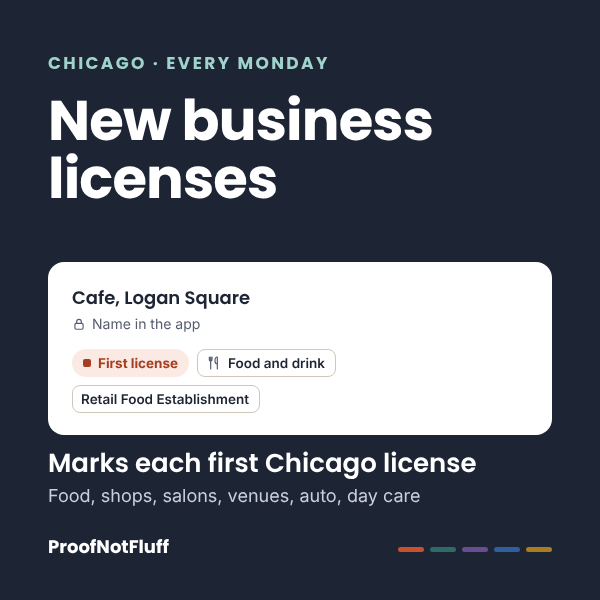
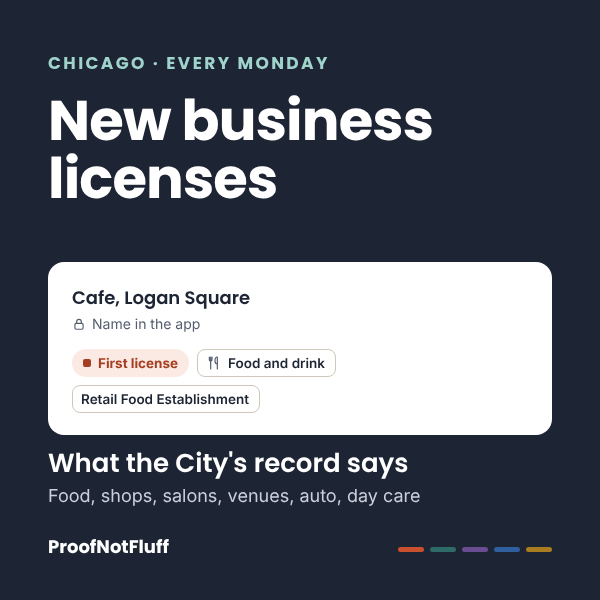
Licenses: holdout 2 round 4 fixes
- A box under a mail center's suite is a mailbox (Level K Events at 332 S Michigan, planted); private booting is work away from a fixed site
- Food and drink defined by the City food or liquor license or food activity
- Cover, thumbnail, storefront and app say what the City's record says instead of 'first Chicago license'
- Free page names the pull day; the sample's source line matches the left-out rules

Claude-Session: https://claude.ai/code/session_01XnX34ksV3GY3Ab6wG7Aich

Changed region(s): [[0.06, 0.75, 0.81, 0.81]]

diff --git a/docs/chicago-new-business-licenses/index.html b/docs/chicago-new-business-licenses/index.html
@@ -12,6 +12,6 @@
 <a class="skip" href="#main">Skip to content</a>
 <header class="top"><div class="wrap"><a class="brandlink" href="../"><span class="brand">ProofNotFluff</span><span class="bars" aria-hidden="true"><i></i><i></i><i></i><i></i><i></i></span></a>
 <nav class="top" aria-label="Main"><a href="../shop/" aria-current="page">Shop</a><a href="../calculators/">Free calculators</a><a href="../questions/">Questions</a></nav></div></header>
-<main class="wrap" id="main"><nav class="crumbs" aria-label="Breadcrumb"><ol><li><a href="../">Home</a></li><li><a href="../shop/">Shop</a></li><li aria-current="page">Chicago New Business Licenses</li></ol></nav><div class="ld-hero"><p class="eyebrow">Free sample, updated every Monday</p><h1>Chicago New Business Licenses</h1><p class="lede">54 business sites on this week's list got a new City business license in the week to Oct 22, 2026, and 238 in the last 30 days. For vendors who sell to new businesses and new locations: POS and payments, signs, insurance, bookkeeping, cleaning, pest control, waste and supplies.</p><div class="ld-heroact rl-act"><a class="btn ld-btnbig" href="mailto:hello@proofnotfluff.com?subject=Chicago%20New%20Business%20Licenses%3A%20tell%20me%20when%20it%20opens">Tell me when it opens</a><a class="ld-textlink" href="#sample">See this week's sample</a></div><p class="ld-heronote">Not on sale yet. New list every Monday.</p></div><div class="tiles ld-tiles"><div class="tile key"><div class="lab">New in 30 days</div><div class="val">238</div><div class="sub">licensed business sites</div></div><div class="tile"><div class="lab">New this week</div><div class="val">54</div><div class="sub">licensed in the last 7 days</div></div><div class="tile"><div class="lab">Food businesses</div><div class="val">74</div><div class="sub">restaurants, cafes, bars, shops</div></div><div class="tile"><div class="lab">Busiest area this week</div><div class="val lc-area">Lincoln Park</div><div class="sub">4 new licenses, tied with 1 more area</div></div></div><p class="asof">City records pulled Oct 22, 2026. Refreshed every Monday.</p><section class="block"><h2>New licenses by trade, last 30 days</h2><p>Each business on the list, sorted by what it does, so you can work the trades that buy from you.</p><ol class="rl-trades"><li><span class="nm">Food and drink<small>Restaurants, cafes, bars, caterers, groceries and other food shops. 26 new this week</small></span><span class="n">74</span></li><li><span class="nm">Shops and services<small>Shops, offices, studios, manufacturers and other services. 17 new this week</small></span><span class="n">107</span></li><li><span class="nm">Salons, spas, fitness<small>Salons, barbers, nails, skin care, spas, gyms and studios. 7 new this week</small></span><span class="n">41</span></li><li><span class="nm">Venues and lodging<small>Event venues, entertainment, hotels and lodging. 2 new this week</small></span><span class="n">3</span></li><li><span class="nm">Auto shops<small>Auto repair, tire shops, car washes and gas stations. 1 new this week</small></span><span class="n">10</span></li><li><span class="nm">Day care<small>Day care and children&#x27;s services. 1 new this week</small></span><span class="n">3</span></li></ol></section><section class="block" id="sample"><h2>This week's sample</h2><p>Up to three businesses per trade licensed in the last 7 days. The members' list has all 238 from the last 30 days, with a map, filters by trade, area and date, and an Excel file.</p><h3 class="lc-h3">Food and drink <span>(26 this week)</span></h3><div class="ld-list rl3"><article class="ld-proj"><p class="ld-pill lc-pill">Licensed Oct 21, 2026</p><div class="ld-ptop"><span class="ld-cost" style="font-size:20px">Plush Pup</span></div><dl class="ld-meta"><div><dt>Where</dt><dd>5344 N Cumberland Ave 1st, O&#x27;Hare</dd></div><div><dt>License</dt><dd>Retail Food Establishment</dd></div><div><dt>Activity</dt><dd>Sale of Food Prepared Onsite With Dining Area</dd></div></dl></article><article class="ld-proj"><p class="ld-pill lc-pill">Licensed Oct 21, 2026</p><div class="ld-ptop"><span class="ld-cost" style="font-size:20px">Pearl Club</span></div><dl class="ld-meta"><div><dt>Where</dt><dd>495-499 N Milwaukee Ave Basement, 1, Mezz., West Town</dd></div><div><dt>License</dt><dd>Tavern</dd></div><div><dt>Activity</dt><dd>Tavern - Consumption of Liquor on Premises</dd></div></dl></article><article class="ld-proj"><p class="ld-pill lc-pill">Licensed Oct 21, 2026</p><div class="ld-ptop"><span class="ld-cost" style="font-size:20px">Millennium Hall Casa Bonita</span></div><dl class="ld-meta"><div><dt>Where</dt><dd>11 N Michigan Ave 1st, Loop</dd></div><div><dt>License</dt><dd>Caterer&#x27;s Liquor License</dd></div><div><dt>Activity</dt><dd>Catering of Liquor To Events</dd></div></dl></article></div><h3 class="lc-h3">Shops and services <span>(17 this week)</span></h3><div class="ld-list rl3"><article class="ld-proj"><p class="ld-pill lc-pill">Licensed Oct 21, 2026</p><div class="ld-ptop"><span class="ld-cost" style="font-size:20px">Pro Plus Parking</span></div><dl class="ld-meta"><div><dt>Where</dt><dd>1005 N State St 23,4,5,6rt, Near North Side</dd></div><div><dt>License</dt><dd>Commercial Garage</dd></div><div><dt>Activity</dt><dd>Provide 4 or More Parking Spaces For a Fee - to Residents, Tenants, Users, Employees and/or Guests (Not Available or Advertised to the Public)</dd></div></dl></article><article class="ld-proj"><p class="ld-pill lc-pill">Licensed Oct 21, 2026</p><div class="ld-ptop"><span class="ld-cost" style="font-size:20px">Paws &amp; Effect</span></div><dl class="ld-meta"><div><dt>Where</dt><dd>2459 E 75th St, South Shore</dd></div><div><dt>License</dt><dd>Animal Care License</dd></div><div><dt>Activity</dt><dd>Provide Animal Grooming Services</dd></div></dl></article><article class="ld-proj"><p class="ld-pill lc-pill">Licensed Oct 21, 2026</p><div class="ld-ptop"><span class="ld-cost" style="font-size:20px">House of Fragrances Luxe</span></div><dl class="ld-meta"><div><dt>Where</dt><dd>3351 N Harlem Ave, Dunning</dd></div><div><dt>License</dt><dd>Limited Business License</dd></div><div><dt>Activity</dt><dd>Retail Sales of General Merchandise</dd></div></dl></article></div><h3 class="lc-h3">Salons, spas, fitness <span>(7 this week)</span></h3><div class="ld-list rl3"><article class="ld-proj"><p class="ld-pill lc-pill">Licensed Oct 21, 2026</p><div class="ld-ptop"><span class="ld-cost" style="font-size:20px">One Stop Nails &amp; Spa</span></div><dl class="ld-meta"><div><dt>Where</dt><dd>8145 S Cottage Grove Ave, Chatham</dd></div><div><dt>License</dt><dd>Limited Business License</dd></div><div><dt>Activity</dt><dd>Nail Services | Provide Waxing Services</dd></div></dl></article><article class="ld-proj"><p class="ld-pill lc-pill">Licensed Oct 21, 2026</p><div class="ld-ptop"><span class="ld-cost" style="font-size:20px">Lincoln Park Waxing Studio Inc.</span></div><dl class="ld-meta"><div><dt>Where</dt><dd>2102 N Clark St 1st, Lincoln Park</dd></div><div><dt>License</dt><dd>Limited Business License</dd></div><div><dt>Activity</dt><dd>Skincare Services | Provide Waxing Services</dd></div></dl></article><article class="ld-proj"><p class="ld-pill lc-pill">Licensed Oct 21, 2026</p><div class="ld-ptop"><span class="ld-cost" style="font-size:20px">Emyves Spa</span></div><dl class="ld-meta"><div><dt>Where</dt><dd>7127 N Clark St 1st, Rogers Park</dd></div><div><dt>License</dt><dd>Limited Business License</dd></div><div><dt>Activity</dt><dd>Hair Services | Skincare Services</dd></div></dl></article></div><h3 class="lc-h3">Venues and lodging <span>(2 this week)</span></h3><div class="ld-list rl3"><article class="ld-proj"><p class="ld-pill lc-pill">Licensed Oct 20, 2026</p><div class="ld-ptop"><span class="ld-cost" style="font-size:20px">Play 424</span></div><dl class="ld-meta"><div><dt>Where</dt><dd>1415 N Ashland Ave 1 R1, West Town</dd></div><div><dt>License</dt><dd>Public Place of Amusement</dd></div><div><dt>Activity</dt><dd>Charges a Fee for Entertainment or Amusements or Recreational Activities | Retail Sales of General Merchandise and Non-Perishable Food</dd></div></dl></article><article class="ld-proj"><p class="ld-pill lc-pill">Licensed Oct 15, 2026</p><div class="ld-ptop"><span class="ld-cost" style="font-size:20px">The Smart Bar</span></div><dl class="ld-meta"><div><dt>Where</dt><dd>3730 N Clark St Basement, Lake View</dd></div><div><dt>License</dt><dd>Public Place of Amusement</dd></div><div><dt>Activity</dt><dd>Charges a Fee for Entertainment or Amusements or Recreational Activities</dd></div></dl></article></div><h3 class="lc-h3">Auto shops <span>(1 this week)</span></h3><div class="ld-list rl3"><article class="ld-proj"><p class="ld-pill lc-pill">Licensed Oct 19, 2026</p><div class="ld-ptop"><span class="ld-cost" style="font-size:20px">Bolts and Nuts</span></div><dl class="ld-meta"><div><dt>Where</dt><dd>3353 W Division St 1, Humboldt Park</dd></div><div><dt>License</dt><dd>Motor Vehicle Services License</dd></div><div><dt>Activity</dt><dd>Motor Vehicle Repair - Engine and Transmission Work</dd></div></dl></article></div><h3 class="lc-h3">Day care <span>(1 this week)</span></h3><div class="ld-list rl3"><article class="ld-proj"><p class="ld-pill lc-pill">Licensed Oct 20, 2026</p><div class="ld-ptop"><span class="ld-cost" style="font-size:20px">Boitsov Classical Ballet</span></div><dl class="ld-meta"><div><dt>Where</dt><dd>5638 W 63rd St 1st, Clearing</dd></div><div><dt>License</dt><dd>Children&#x27;s Services Facility License</dd></div><div><dt>Activity</dt><dd>Instruction in Dance for Children Under 18 Years of Age</dd></div></dl></article></div></section><section class="block"><h2>How to use this list</h2><p>Pick the trades that buy from you. A new restaurant and a new salon need different vendors, so the list is sorted by what each business does.</p><p>Reach out in the first weeks. The license date tells you how recently the business opened or added a site, so you can reach out early.</p><p>Visit or call the business at its licensed address, name the license and its date, and say in one line what you do for businesses like it.</p><p>If you also have Chicago Restaurant Inspection Leads: food businesses usually get a City food license inspection before the license is issued, usually within three weeks before, and that product lists those inspections as Opening soon. So you may already have seen most of the food businesses here. Each food row with that inspection is marked in the members&#x27; list, so you can hide them. Nearly all businesses in the other trades are only here.</p></section><section class="block" id="ldCta"><div class="cta ld-cta"><div><h2>Get the full list every Monday</h2><p>New business licenses the City issued in the last 30 days at Chicago business sites, except the ones left out on purpose, one row per business and site, sorted by trade, with license type, business activity, issue date, address, community area and what the City&#x27;s earlier records say about the business, in a members&#x27; web app and an Excel file.</p><p class="ld-buybtn"><a class="btn ld-btnbig" href="mailto:hello@proofnotfluff.com?subject=Chicago%20New%20Business%20Licenses%3A%20tell%20me%20when%20it%20opens">Tell me when it opens</a></p></div></div></section><section class="block"><h2>Questions</h2><details><summary>Where does this data come from?</summary><p>The City of Chicago Data Portal&#x27;s Business Licenses dataset. We pull it every Monday and keep new licenses (application type Issue) the City issued in the last 30 days at a Chicago business site.</p></details><details><summary>Is every license a brand-new business?</summary><p>Most are, and each row says which. A business that opens another site, adds a new license type at a site it already has, or licenses a site again (a new owner, or the same business after an older license ended) also gets a new license. The members&#x27; list reads the City&#x27;s earlier licenses for each business and marks which is which: first license, new site, added license or relicensed.</p></details><details><summary>Who is left out?</summary><p>Renewals and changes, cancelled or revoked licenses, licenses for one person&#x27;s own work, for work away from a fixed business site, or for an event or season (such as peddlers, special events, pop-ups, tow trucks, home-sharing, bed-and-breakfasts, shared kitchen users, flea market vendors and market stalls), home and mail-drop addresses (home-based businesses, apartments, private mailboxes and virtual offices), sites outside Chicago, and any business whose shown name could be a person&#x27;s name. A business with two licenses at one site is listed once.</p></details><details><summary>Does it overlap with Chicago Restaurant Inspection Leads?</summary><p>Partly, and only for food businesses. That product lists the City&#x27;s food license inspection, which usually comes within three weeks before the food license this list shows. The members&#x27; list marks every food row with that inspection in the 120 days before its license, so a member of both can hide them. Nearly all shops, salons, venues, auto shops and day care centers are only here.</p></details><details><summary>Is every business on the list open?</summary><p>Not necessarily. A license shows the City issued it on that date. Some businesses open the same week, some later.</p></details><details><summary>Do you contact these businesses for me?</summary><p>No. You make your own calls and visits. We never contact anyone on your behalf, and no business listed has endorsed or works with ProofNotFluff.</p></details></section></main>
+<main class="wrap" id="main"><nav class="crumbs" aria-label="Breadcrumb"><ol><li><a href="../">Home</a></li><li><a href="../shop/">Shop</a></li><li aria-current="page">Chicago New Business Licenses</li></ol></nav><div class="ld-hero"><p class="eyebrow">Free sample, updated every Monday</p><h1>Chicago New Business Licenses</h1><p class="lede">54 business sites on this week's list got a new City business license in the week to Oct 22, 2026, and 238 in the last 30 days. For vendors who sell to new businesses and new locations: POS and payments, signs, insurance, bookkeeping, cleaning, pest control, waste and supplies.</p><div class="ld-heroact rl-act"><a class="btn ld-btnbig" href="mailto:hello@proofnotfluff.com?subject=Chicago%20New%20Business%20Licenses%3A%20tell%20me%20when%20it%20opens">Tell me when it opens</a><a class="ld-textlink" href="#sample">See this week's sample</a></div><p class="ld-heronote">Not on sale yet. New list every Monday.</p></div><div class="tiles ld-tiles"><div class="tile key"><div class="lab">New in 30 days</div><div class="val">238</div><div class="sub">licensed business sites</div></div><div class="tile"><div class="lab">New this week</div><div class="val">54</div><div class="sub">licensed in the last 7 days</div></div><div class="tile"><div class="lab">Food businesses</div><div class="val">74</div><div class="sub">restaurants, cafes, bars, shops</div></div><div class="tile"><div class="lab">Busiest area this week</div><div class="val lc-area">Lincoln Park</div><div class="sub">4 new licenses, tied with 1 more area</div></div></div><p class="asof">City records pulled Thursday, Oct 22, 2026. The list is refreshed every Monday.</p><section class="block"><h2>New licenses by trade, last 30 days</h2><p>Each business on the list, sorted by what it does, so you can work the trades that buy from you.</p><ol class="rl-trades"><li><span class="nm">Food and drink<small>Restaurants, cafes, bars, caterers and food stores, by their City food or liquor license or food activity. 26 new this week</small></span><span class="n">74</span></li><li><span class="nm">Shops and services<small>Shops, offices, studios, manufacturers and other services. 17 new this week</small></span><span class="n">107</span></li><li><span class="nm">Salons, spas, fitness<small>Salons, barbers, nails, skin care, spas, gyms and studios. 7 new this week</small></span><span class="n">41</span></li><li><span class="nm">Venues and lodging<small>Event venues, entertainment, hotels and lodging. 2 new this week</small></span><span class="n">3</span></li><li><span class="nm">Auto shops<small>Auto repair, tire shops, car washes and gas stations. 1 new this week</small></span><span class="n">10</span></li><li><span class="nm">Day care<small>Day care and children&#x27;s services. 1 new this week</small></span><span class="n">3</span></li></ol></section><section class="block" id="sample"><h2>This week's sample</h2><p>Up to three businesses per trade licensed in the last 7 days. The members' list has all 238 from the last 30 days, with a map, filters by trade, area and date, and an Excel file.</p><h3 class="lc-h3">Food and drink <span>(26 this week)</span></h3><div class="ld-list rl3"><article class="ld-proj"><p class="ld-pill lc-pill">Licensed Oct 21, 2026</p><div class="ld-ptop"><span class="ld-cost" style="font-size:20px">Plush Pup</span></div><dl class="ld-meta"><div><dt>Where</dt><dd>5344 N Cumberland Ave 1st, O&#x27;Hare</dd></div><div><dt>License</dt><dd>Retail Food Establishment</dd></div><div><dt>Activity</dt><dd>Sale of Food Prepared Onsite With Dining Area</dd></div></dl></article><article class="ld-proj"><p class="ld-pill lc-pill">Licensed Oct 21, 2026</p><div class="ld-ptop"><span class="ld-cost" style="font-size:20px">Pearl Club</span></div><dl class="ld-meta"><div><dt>Where</dt><dd>495-499 N Milwaukee Ave Basement, 1, Mezz., West Town</dd></div><div><dt>License</dt><dd>Tavern</dd></div><div><dt>Activity</dt><dd>Tavern - Consumption of Liquor on Premises</dd></div></dl></article><article class="ld-proj"><p class="ld-pill lc-pill">Licensed Oct 21, 2026</p><div class="ld-ptop"><span class="ld-cost" style="font-size:20px">Millennium Hall Casa Bonita</span></div><dl class="ld-meta"><div><dt>Where</dt><dd>11 N Michigan Ave 1st, Loop</dd></div><div><dt>License</dt><dd>Caterer&#x27;s Liquor License</dd></div><div><dt>Activity</dt><dd>Catering of Liquor To Events</dd></div></dl></article></div><h3 class="lc-h3">Shops and services <span>(17 this week)</span></h3><div class="ld-list rl3"><article class="ld-proj"><p class="ld-pill lc-pill">Licensed Oct 21, 2026</p><div class="ld-ptop"><span class="ld-cost" style="font-size:20px">Pro Plus Parking</span></div><dl class="ld-meta"><div><dt>Where</dt><dd>1005 N State St 23,4,5,6rt, Near North Side</dd></div><div><dt>License</dt><dd>Commercial Garage</dd></div><div><dt>Activity</dt><dd>Provide 4 or More Parking Spaces For a Fee - to Residents, Tenants, Users, Employees and/or Guests (Not Available or Advertised to the Public)</dd></div></dl></article><article class="ld-proj"><p class="ld-pill lc-pill">Licensed Oct 21, 2026</p><div class="ld-ptop"><span class="ld-cost" style="font-size:20px">Paws &amp; Effect</span></div><dl class="ld-meta"><div><dt>Where</dt><dd>2459 E 75th St, South Shore</dd></div><div><dt>License</dt><dd>Animal Care License</dd></div><div><dt>Activity</dt><dd>Provide Animal Grooming Services</dd></div></dl></article><article class="ld-proj"><p class="ld-pill lc-pill">Licensed Oct 21, 2026</p><div class="ld-ptop"><span class="ld-cost" style="font-size:20px">House of Fragrances Luxe</span></div><dl class="ld-meta"><div><dt>Where</dt><dd>3351 N Harlem Ave, Dunning</dd></div><div><dt>License</dt><dd>Limited Business License</dd></div><div><dt>Activity</dt><dd>Retail Sales of General Merchandise</dd></div></dl></article></div><h3 class="lc-h3">Salons, spas, fitness <span>(7 this week)</span></h3><div class="ld-list rl3"><article class="ld-proj"><p class="ld-pill lc-pill">Licensed Oct 21, 2026</p><div class="ld-ptop"><span class="ld-cost" style="font-size:20px">One Stop Nails &amp; Spa</span></div><dl class="ld-meta"><div><dt>Where</dt><dd>8145 S Cottage Grove Ave, Chatham</dd></div><div><dt>License</dt><dd>Limited Business License</dd></div><div><dt>Activity</dt><dd>Nail Services | Provide Waxing Services</dd></div></dl></article><article class="ld-proj"><p class="ld-pill lc-pill">Licensed Oct 21, 2026</p><div class="ld-ptop"><span class="ld-cost" style="font-size:20px">Lincoln Park Waxing Studio Inc.</span></div><dl class="ld-meta"><div><dt>Where</dt><dd>2102 N Clark St 1st, Lincoln Park</dd></div><div><dt>License</dt><dd>Limited Business License</dd></div><div><dt>Activity</dt><dd>Skincare Services | Provide Waxing Services</dd></div></dl></article><article class="ld-proj"><p class="ld-pill lc-pill">Licensed Oct 21, 2026</p><div class="ld-ptop"><span class="ld-cost" style="font-size:20px">Emyves Spa</span></div><dl class="ld-meta"><div><dt>Where</dt><dd>7127 N Clark St 1st, Rogers Park</dd></div><div><dt>License</dt><dd>Limited Business License</dd></div><div><dt>Activity</dt><dd>Hair Services | Skincare Services</dd></div></dl></article></div><h3 class="lc-h3">Venues and lodging <span>(2 this week)</span></h3><div class="ld-list rl3"><article class="ld-proj"><p class="ld-pill lc-pill">Licensed Oct 20, 2026</p><div class="ld-ptop"><span class="ld-cost" style="font-size:20px">Play 424</span></div><dl class="ld-meta"><div><dt>Where</dt><dd>1415 N Ashland Ave 1 R1, West Town</dd></div><div><dt>License</dt><dd>Public Place of Amusement</dd></div><div><dt>Activity</dt><dd>Charges a Fee for Entertainment or Amusements or Recreational Activities | Retail Sales of General Merchandise and Non-Perishable Food</dd></div></dl></article><article class="ld-proj"><p class="ld-pill lc-pill">Licensed Oct 15, 2026</p><div class="ld-ptop"><span class="ld-cost" style="font-size:20px">The Smart Bar</span></div><dl class="ld-meta"><div><dt>Where</dt><dd>3730 N Clark St Basement, Lake View</dd></div><div><dt>License</dt><dd>Public Place of Amusement</dd></div><div><dt>Activity</dt><dd>Charges a Fee for Entertainment or Amusements or Recreational Activities</dd></div></dl></article></div><h3 class="lc-h3">Auto shops <span>(1 this week)</span></h3><div class="ld-list rl3"><article class="ld-proj"><p class="ld-pill lc-pill">Licensed Oct 19, 2026</p><div class="ld-ptop"><span class="ld-cost" style="font-size:20px">Bolts and Nuts</span></div><dl class="ld-meta"><div><dt>Where</dt><dd>3353 W Division St 1, Humboldt Park</dd></div><div><dt>License</dt><dd>Motor Vehicle Services License</dd></div><div><dt>Activity</dt><dd>Motor Vehicle Repair - Engine and Transmission Work</dd></div></dl></article></div><h3 class="lc-h3">Day care <span>(1 this week)</span></h3><div class="ld-list rl3"><article class="ld-proj"><p class="ld-pill lc-pill">Licensed Oct 20, 2026</p><div class="ld-ptop"><span class="ld-cost" style="font-size:20px">Boitsov Classical Ballet</span></div><dl class="ld-meta"><div><dt>Where</dt><dd>5638 W 63rd St 1st, Clearing</dd></div><div><dt>License</dt><dd>Children&#x27;s Services Facility License</dd></div><div><dt>Activity</dt><dd>Instruction in Dance for Children Under 18 Years of Age</dd></div></dl></article></div></section><section class="block"><h2>How to use this list</h2><p>Pick the trades that buy from you. A new restaurant and a new salon need different vendors, so the list is sorted by what each business does.</p><p>Reach out in the first weeks. The license date tells you how recently the business opened or added a site, so you can reach out early.</p><p>Visit or call the business at its licensed address, name the license and its date, and say in one line what you do for businesses like it.</p><p>If you also have Chicago Restaurant Inspection Leads: food businesses usually get a City food license inspection before the license is issued, usually within three weeks before, and that product lists those inspections as Opening soon. So you may already have seen most of the food businesses here. Each food row with that inspection is marked in the members&#x27; list, so you can hide them. Nearly all businesses in the other trades are only here.</p></section><section class="block" id="ldCta"><div class="cta ld-cta"><div><h2>Get the full list every Monday</h2><p>New business licenses the City issued in the last 30 days at Chicago business sites, except the ones left out on purpose, one row per business and site, sorted by trade, with license type, business activity, issue date, address, community area and what the City&#x27;s earlier records say about the business, in a members&#x27; web app and an Excel file.</p><p class="ld-buybtn"><a class="btn ld-btnbig" href="mailto:hello@proofnotfluff.com?subject=Chicago%20New%20Business%20Licenses%3A%20tell%20me%20when%20it%20opens">Tell me when it opens</a></p></div></div></section><section class="block"><h2>Questions</h2><details><summary>Where does this data come from?</summary><p>The City of Chicago Data Portal&#x27;s Business Licenses dataset. We pull it every Monday and keep new licenses (application type Issue) the City issued in the last 30 days at a Chicago business site.</p></details><details><summary>Is every license a brand-new business?</summary><p>Most are, and each row says which. A business that opens another site, adds a new license type at a site it already has, or licenses a site again (a new owner, or the same business after an older license ended) also gets a new license. The members&#x27; list reads the City&#x27;s earlier licenses for each business and marks which is which: first license, new site, added license or relicensed.</p></details><details><summary>Who is left out?</summary><p>Renewals and changes, cancelled or revoked licenses, licenses for one person&#x27;s own work, for work away from a fixed business site, or for an event or season (such as peddlers, special events, pop-ups, tow trucks, home-sharing, bed-and-breakfasts, shared kitchen users, flea market vendors and market stalls), home and mail-drop addresses (home-based businesses, apartments, private mailboxes and virtual offices), sites outside Chicago, and any business whose shown name could be a person&#x27;s name. A business with two licenses at one site is listed once.</p></details><details><summary>Does it overlap with Chicago Restaurant Inspection Leads?</summary><p>Partly, and only for food businesses. That product lists the City&#x27;s food license inspection, which usually comes within three weeks before the food license this list shows. The members&#x27; list marks every food row with that inspection in the 120 days before its license, so a member of both can hide them. Nearly all shops, salons, venues, auto shops and day care centers are only here.</p></details><details><summary>Is every business on the list open?</summary><p>Not necessarily. A license shows the City issued it on that date. Some businesses open the same week, some later.</p></details><details><summary>Do you contact these businesses for me?</summary><p>No. You make your own calls and visits. We never contact anyone on your behalf, and no business listed has endorsed or works with ProofNotFluff.</p></details></section></main>
 <footer><div class="wrap"><nav class="fnav" aria-label="Footer"><a href="../shop/">Shop</a><a href="../calculators/">Free calculators</a><a href="../questions/">Questions</a><a href="../refunds/">Refunds and cancelling</a><a href="https://proofnotfluff.etsy.com">Workbooks on Etsy</a><a href="mailto:hello@proofnotfluff.com">hello@proofnotfluff.com</a></nav><p>Source: City of Chicago Data Portal, Business Licenses (https://data.cityofchicago.org/Community-Economic-Development/Business-Licenses/r5kz-chrr), pulled Oct 22, 2026. Filtered by ProofNotFluff: new business licenses (application type Issue) issued in the last 30 days at a Chicago business site, one row per business and address. Left out: licenses held by a person or for an event or season (peddlers, special events, pop-ups, tow trucks, home-sharing, shared kitchen users), home and mail-drop addresses, and any business whose name could be a person&#x27;s name. Business-level fields only. A license shows the City issued it on that date; it does not say a business is open today or buying anything. No business named here has endorsed or works with ProofNotFluff. Public information for planning sales calls; not legal or business advice and no promise of work.</p><p>This site provides applications using data that has been modified for use from its original source, www.cityofchicago.org, the official website of the City of Chicago. The City of Chicago makes no claims as to the content, accuracy, timeliness, or completeness of any of the data provided at this site. The data provided at this site is subject to change at any time. It is understood that the data provided at this site is being used at one’s own risk.</p><p>ProofNotFluff is not affiliated with or endorsed by the City of Chicago.</p><p>Made by ProofNotFluff with AI assistance from public City data. The page counts visits with Cloudflare Web Analytics, which sets no cookies.</p></div></footer>
 </body></html>

diff --git a/launches/chicago-new-business-licenses/cover.html b/launches/chicago-new-business-licenses/cover.html
@@ -31,7 +31,7 @@ ul{list-style:none;margin:24px 0 0}
 <div class="l"><div class="eb">CHICAGO · NEW LIST EVERY MONDAY</div>
 <h1>New business licenses</h1>
 <p class="sub">Licenses the City issued in the last 30 days at Chicago business sites, sorted by trade, for vendors who sell to new businesses and new locations.</p>
-<span class="fact">Marks each business's first Chicago license</span>
+<span class="fact">Marks what the City's record says about each business</span>
 <ul><li><i></i>Food, shops, salons, venues, auto and day care</li><li><i></i>For commercial cleaning, pest control and other vendors</li><li><i></i>Web app with map, Excel file and pitch kit</li></ul>
 <div class="price"><span class="pill">$29 a month</span><span class="cancel">Cancel any time</span></div></div>
 <div class="app"><div class="ah"><b>Food and drink</b><span>City license type, date and record</span></div>
@@ -44,7 +44,7 @@ ul{list-style:none;margin:24px 0 0}
 <p class="mt">Retail Food Establishment</p></div><div class="rr"><span class="hi first"><i></i>First license</span></div></div>
 </div>
 <div class="card2"><h3>What the City's record says</h3><ul>
-<li><span class="hi first"><i></i>First license</span><span class="t">a business new to the City's record</span></li>
+<li><span class="hi first"><i></i>First license</span><span class="t">no earlier license on its account or name here</span></li>
 <li><span class="hi site"><i></i>New site</span><span class="t">a new location of a business</span></li>
 <li><span class="hi added"><i></i>Added license</span><span class="t">a new license type at its site</span></li></ul></div>
 <div class="brand">ProofNotFluff<div class="bars5"><b style="background:#C8502F"></b><b style="background:#2E6B66"></b><b style="background:#6A4C93"></b><b style="background:#2F5F9E"></b><b style="background:#A87C1F"></b></div></div>

diff --git a/launches/chicago-new-business-licenses/thumb.html b/launches/chicago-new-business-licenses/thumb.html
@@ -13,6 +13,6 @@ h1{position:absolute;left:48px;top:92px;width:510px;font:700 56px/1.04 P;letter-
 <h1>New business licenses</h1>
 <div class="card"><div class="lbl"><b>Cafe, Logan Square</b><span><svg viewBox="0 0 24 24" style="width:14px;height:14px;fill:none;stroke:#565D6F;stroke-width:2"><rect x="5" y="11" width="14" height="10" rx="2"/><path d="M8 11V8a4 4 0 0 1 8 0v3"/></svg>Name in the app</span></div>
 <div class="cs"><span class="hi first"><i></i>First license</span><span class="tch"><svg viewBox="0 0 24 24"><path d="M7 3v8M5 3v4a2 2 0 0 0 4 0V3M7 11v10M17 21V3c-2 0-3.5 2.6-3.5 6s1.5 4.5 3.5 4.5"/></svg>Food and drink</span><span class="tch">Retail Food Establishment</span></div></div>
-<div class="fig">Marks each first Chicago license<small>Food, shops, salons, venues, auto, day care</small></div>
+<div class="fig">What the City's record says<small>Food, shops, salons, venues, auto, day care</small></div>
 <div class="foot">ProofNotFluff</div><div class="b5"><div class="bars5"><b style="background:#C8502F"></b><b style="background:#2E6B66"></b><b style="background:#6A4C93"></b><b style="background:#2F5F9E"></b><b style="background:#A87C1F"></b></div></div>
 </body></html>

diff --git a/tools/licenses_chicago.py b/tools/licenses_chicago.py
@@ -34,7 +34,7 @@ WINDOW_DAYS = 30      # members' list: licenses issued in the last 30 days; the 
 SKIP_LICENSES = re.compile(r"^(?:PEDDLER|PHARMACEUTICAL REPRESENTATIVE|SPECIAL EVENT|POP-UP|RAFFLE|TOWING|TOW TRUCK|SHARED HOUSING|"
                            r"HOME OCCUPATION|HOME REPAIR|MOBILE FOOD|PUBLIC CHAUFFEUR|VALET|BED-AND-BREAKFAST|VACATION RENTAL|"
                            r"ITINERANT|MASSAGE THERAPIST|BODY ART PRACTITIONER|SCAVENGER|EXPEDITOR|BUSINESS AFFAIRS|"
-                           r"RESIDENTIAL REAL ESTATE DEVELOPER|SHARED KITCHEN USER)", re.I)   # a shared kitchen user cooks in someone else's kitchen (holdout 1, Oct 22)
+                           r"RESIDENTIAL REAL ESTATE DEVELOPER|SHARED KITCHEN USER|PRIVATE BOOTING)", re.I)   # a shared kitchen user cooks in someone else's kitchen (holdout 1, Oct 22)
 # The same kinds named only in the business activity, and any activity the City marks as home based.
 SKIP_ACTIVITY = re.compile(r"STREET PERFORMER|FLEA MARKET|ORGANIZER OF EVENT|VACATION RENTAL|SHARED HOUSING|TOW TRUCK|SCAVENGER VEHICLE|"
                            r"MOBILE FOOD|SPECIAL EVENT|PEDDLER|BED[- ]AND[- ]BREAKFAST|HOME REPAIR|SHARED KITCHEN USER", re.I)
@@ -59,7 +59,7 @@ SEGMENTS = [
 # The trades as buyers read them (tab, short label, what kinds of business), in tab order: the workbook, the members' app
 # and the free page all use these names (tools/lic_xlsx.py, tools/lic_app.py, tools/lic_site.py).
 TRADES = [  # key, tab, short label, what kinds of business
-    ("food", "1 Food and drink", "Food and drink", "Restaurants, cafes, bars, caterers, groceries and other food shops"),
+    ("food", "1 Food and drink", "Food and drink", "Restaurants, cafes, bars, caterers and food stores, by their City food or liquor license or food activity"),
     ("retail", "2 Shops and services", "Shops and services", "Shops, offices, studios, manufacturers and other services"),
     ("beauty", "3 Salons, spas, fitness", "Salons, spas, fitness", "Salons, barbers, nails, skin care, spas, gyms and studios"),
     ("venue", "4 Venues and lodging", "Venues and lodging", "Event venues, entertainment, hotels and lodging"),
@@ -524,7 +524,10 @@ def flagged_buildings(recs, home, virtual):
         b, unit = split_address(r.get("_addr") or r["address"])
         k = building_key(r.get("_addr") or r["address"])
         vu = virtual.get(k) if isinstance(virtual, dict) else ({""} if k in virtual else None)
-        if vu is not None and ("" in vu or norm(unit) in vu):
+        first_no = (re.findall(r"\d+", unit) or [""])[0]
+        # a box under a mail center's suite ("121-5113" under "1ST 121", My Mail Center at 332 S Michigan; holdout 2, round 4)
+        boxed = bool(first_no) and len(re.findall(r"\d+", unit)) >= 2 and any(re.findall(r"\d+", v) and re.findall(r"\d+", v)[-1] == first_no for v in (vu or ()))
+        if vu is not None and ("" in vu or norm(unit) in vu or boxed):
             out[r["license"]] = MAILBOX_REASON
         elif k in home and unit and not GROUND_UNIT.match(unit.strip()):
             out[r["license"]] = RESIDENTIAL_REASON
@@ -669,7 +672,8 @@ def main():
               "fetchedAt": now.isoformat(timespec="seconds"), "terms": TERMS,
               "modified": ("Filtered by ProofNotFluff: new business licenses (application type Issue) issued in the last 30 days at a "
                            "Chicago business site, one row per business and address. Left out: licenses held by a person or for an "
-                           "event or season (peddlers, special events, pop-ups, tow trucks, home-sharing, shared kitchen users), home "
+                           "event or season, or for one person's own work or work away from a fixed business site (peddlers, special events, pop-ups, "
+                           "tow trucks, home-sharing, shared kitchen users, private booting), home "
                            "and mail-drop addresses, and any business whose name could be a person's name. Business-level fields only.")}
     sample = {"source": source,
               "window": {"from": week_from, "to": today.isoformat(), "listFrom": (today - dt.timedelta(days=WINDOW_DAYS)).isoformat()},
@@ -847,6 +851,8 @@ def selftest():
     gym = [{"license": "g", "address": "180 N Stetson Ave 1"}, {"license": "h", "address": "180 N Stetson Ave 35 3500"},
            {"license": "i", "address": "1655 S Blue Island Ave 2 100"}]
     assert flagged_buildings(gym, set(), {"180NSTETSONAVE": {"353500"}, "1655SBLUEISLANDAVE": {""}}) == {"h": MAILBOX_REASON, "i": MAILBOX_REASON}
+    box = [{"license": "k", "address": "332 S Michigan Ave 121-5113"}, {"license": "l", "address": "332 S Michigan Ave 1200"}]
+    assert flagged_buildings(box, set(), {"332SMICHIGANAVE": {"1ST121"}}) == {"k": MAILBOX_REASON}, "a box under the mail center's suite"
     # same license type at the same site before: relicensed (a new owner or a new account), not added (holdout 1, round 2)
     rl = [{"license": "p", "business": "Plush Pup", "address": "5344 N Cumberland Ave", "_addr": "5344 N CUMBERLAND AVE", "licenseType": "Retail Food Establishment",
            "_acct": "9", "_site": "1", "issued": "2026-10-10", "segment": "food"},

diff --git a/tools/lic_app.py b/tools/lic_app.py
@@ -337,11 +337,11 @@ const top8=R.slice().sort(newest).slice(0,8),shown=new Set(top8.map(r=>r.id));
 const fresh=R.filter(r=>r.h==="first"&&!shown.has(r.id)).slice().sort(newest).slice(0,6);
 $("#app").innerHTML=`<section class="hero"><h1>${int(n)} new business licenses in Chicago in the last 30 days, ${int(nw)} of them this week</h1>
 <p>From City of Chicago business license records, issued ${esc(dayShort(D.window.listFrom))} to ${esc(day(D.window.to))}. List of ${esc(D.asOf)}. One row per business and site, sorted by trade.</p>
-<p class="kpis"><span><b class="num">${int(first)}</b> first Chicago license</span><span><b class="num">${int(n-first-R.filter(r=>!r.h).length)}</b> new site, added or relicensed</span>${D.checks.food?`<span><b class="num">${int(food)}</b> with a food license inspection</span>`:""}</p></section>
+<p class="kpis"><span><b class="num">${int(first)}</b> first license</span><span><b class="num">${int(n-first-R.filter(r=>!r.h).length)}</b> new site, added or relicensed</span>${D.checks.food?`<span><b class="num">${int(food)}</b> with a food license inspection</span>`:""}</p></section>
 <nav class="trades" aria-label="Businesses by trade">${TORD.map(tile).join("")}</nav>
 <div class="ov"><div class="ov-col">
 <section class="panel"><div class="sec-h"><h2>Newest licenses<span class="c num">${int(n)}</span></h2><a href="#/list">See all ${int(n)}</a></div>${rowsHtml(top8,0,true)}</section>
-${D.checks.history?`<section class="panel"><div class="sec-h"><h2>First Chicago license<span class="c num">${int(first)}</span></h2><a href="#/list?h=first">See all ${int(first)}</a></div><p class="rec" style="padding-top:0">${esc(W.historyLong.first)} Newest first, after the ones above.</p>${rowsHtml(fresh,0,true)}</section>`:""}
+${D.checks.history?`<section class="panel"><div class="sec-h"><h2>First license<span class="c num">${int(first)}</span></h2><a href="#/list?h=first">See all ${int(first)}</a></div><p class="rec" style="padding-top:0">${esc(W.historyLong.first)} Newest first, after the ones above.</p>${rowsHtml(fresh,0,true)}</section>`:""}
 </div><div class="ov-col">
 <section class="panel"><div class="sec-h"><h2>Where they are</h2><a href="#/list?view=map">Open the map</a></div>
 <p class="blg" aria-hidden="true"><span><i style="background:#C8502F"></i>First license</span><span><i style="background:#2F5F9E"></i>Other new licenses</span></p>

diff --git a/tools/lic_site.py b/tools/lic_site.py
@@ -10,7 +10,7 @@ spec carries "draft": true (noindex, off the index and the sitemap) and no "chec
 
 Usage: python3 tools/lic_site.py      selftest on the committed sample and planted rows
 """
-import json, os
+import datetime as dt, json, os
 
 HERE = os.path.dirname(os.path.abspath(__file__))
 ROOT = os.path.dirname(HERE)
@@ -57,7 +57,7 @@ def page_html(p):
              f'<div class="tile"><div class="lab">Food businesses</div><div class="val">{s30.get("food", 0):,}</div><div class="sub">restaurants, cafes, bars, shops</div></div>'
              + (f'<div class="tile"><div class="lab">Busiest area this week</div><div class="val lc-area">{E(top_area[0])}</div><div class="sub">{top_area[1]:,} new licenses'
                 + (f', tied with {ties} more {"area" if ties == 1 else "areas"}' if ties else "") + '</div></div>' if top_area else "")
-             + f'</div><p class="asof">City records pulled {E(pulled)}. Refreshed every Monday.</p>')
+             + f'</div><p class="asof">City records pulled {E(dt.date.fromisoformat(d["source"]["fetchedAt"][:10]).strftime("%A"))}, {E(pulled)}. The list is refreshed every Monday.</p>')
     trades = ('<section class="block"><h2>New licenses by trade, last 30 days</h2><p>Each business on the list, sorted by what it does, '
               'so you can work the trades that buy from you.</p><ol class="rl-trades">'
               + "".join(f'<li><span class="nm">{E(names[k])}<small>{E(kinds[k])}. {sw.get(k, 0):,} new this week</small></span><span class="n">{s30.get(k, 0):,}</span></li>'

diff --git a/tools/lic_xlsx.py b/tools/lic_xlsx.py
@@ -70,8 +70,8 @@ def history_text(r):
 
 LEFT_OUT = ("Renewals and changes (including an older license the City re-dated), cancelled or revoked licenses, and licenses "
             "for one person's own work, for work done away from a fixed business site, or for an event or a season are left out: peddler, special event, pop-up, raffle, tow truck, valet, "
-            "chauffeur, home-sharing, vacation rental, bed-and-breakfast, mobile food, shared kitchen user, home occupation, home "
-            "repair, massage therapist, body art practitioner, scavenger and expediter licenses, and street performers, flea "
+            "chauffeur, home-sharing, vacation rental, bed-and-breakfast, mobile food, shared kitchen user, private booting, home "
+            "occupation, home repair, massage therapist, body art practitioner, scavenger and expediter licenses, and street performers, flea "
             "market vendors and market stalls. So are home and mail-drop addresses: businesses the City marks as home based, "
             "addresses with an apartment number, upper-floor units in a building where the City has licensed home-based "
             "businesses at two or more addresses, private mailboxes, and addresses with a current City virtual office license. "
